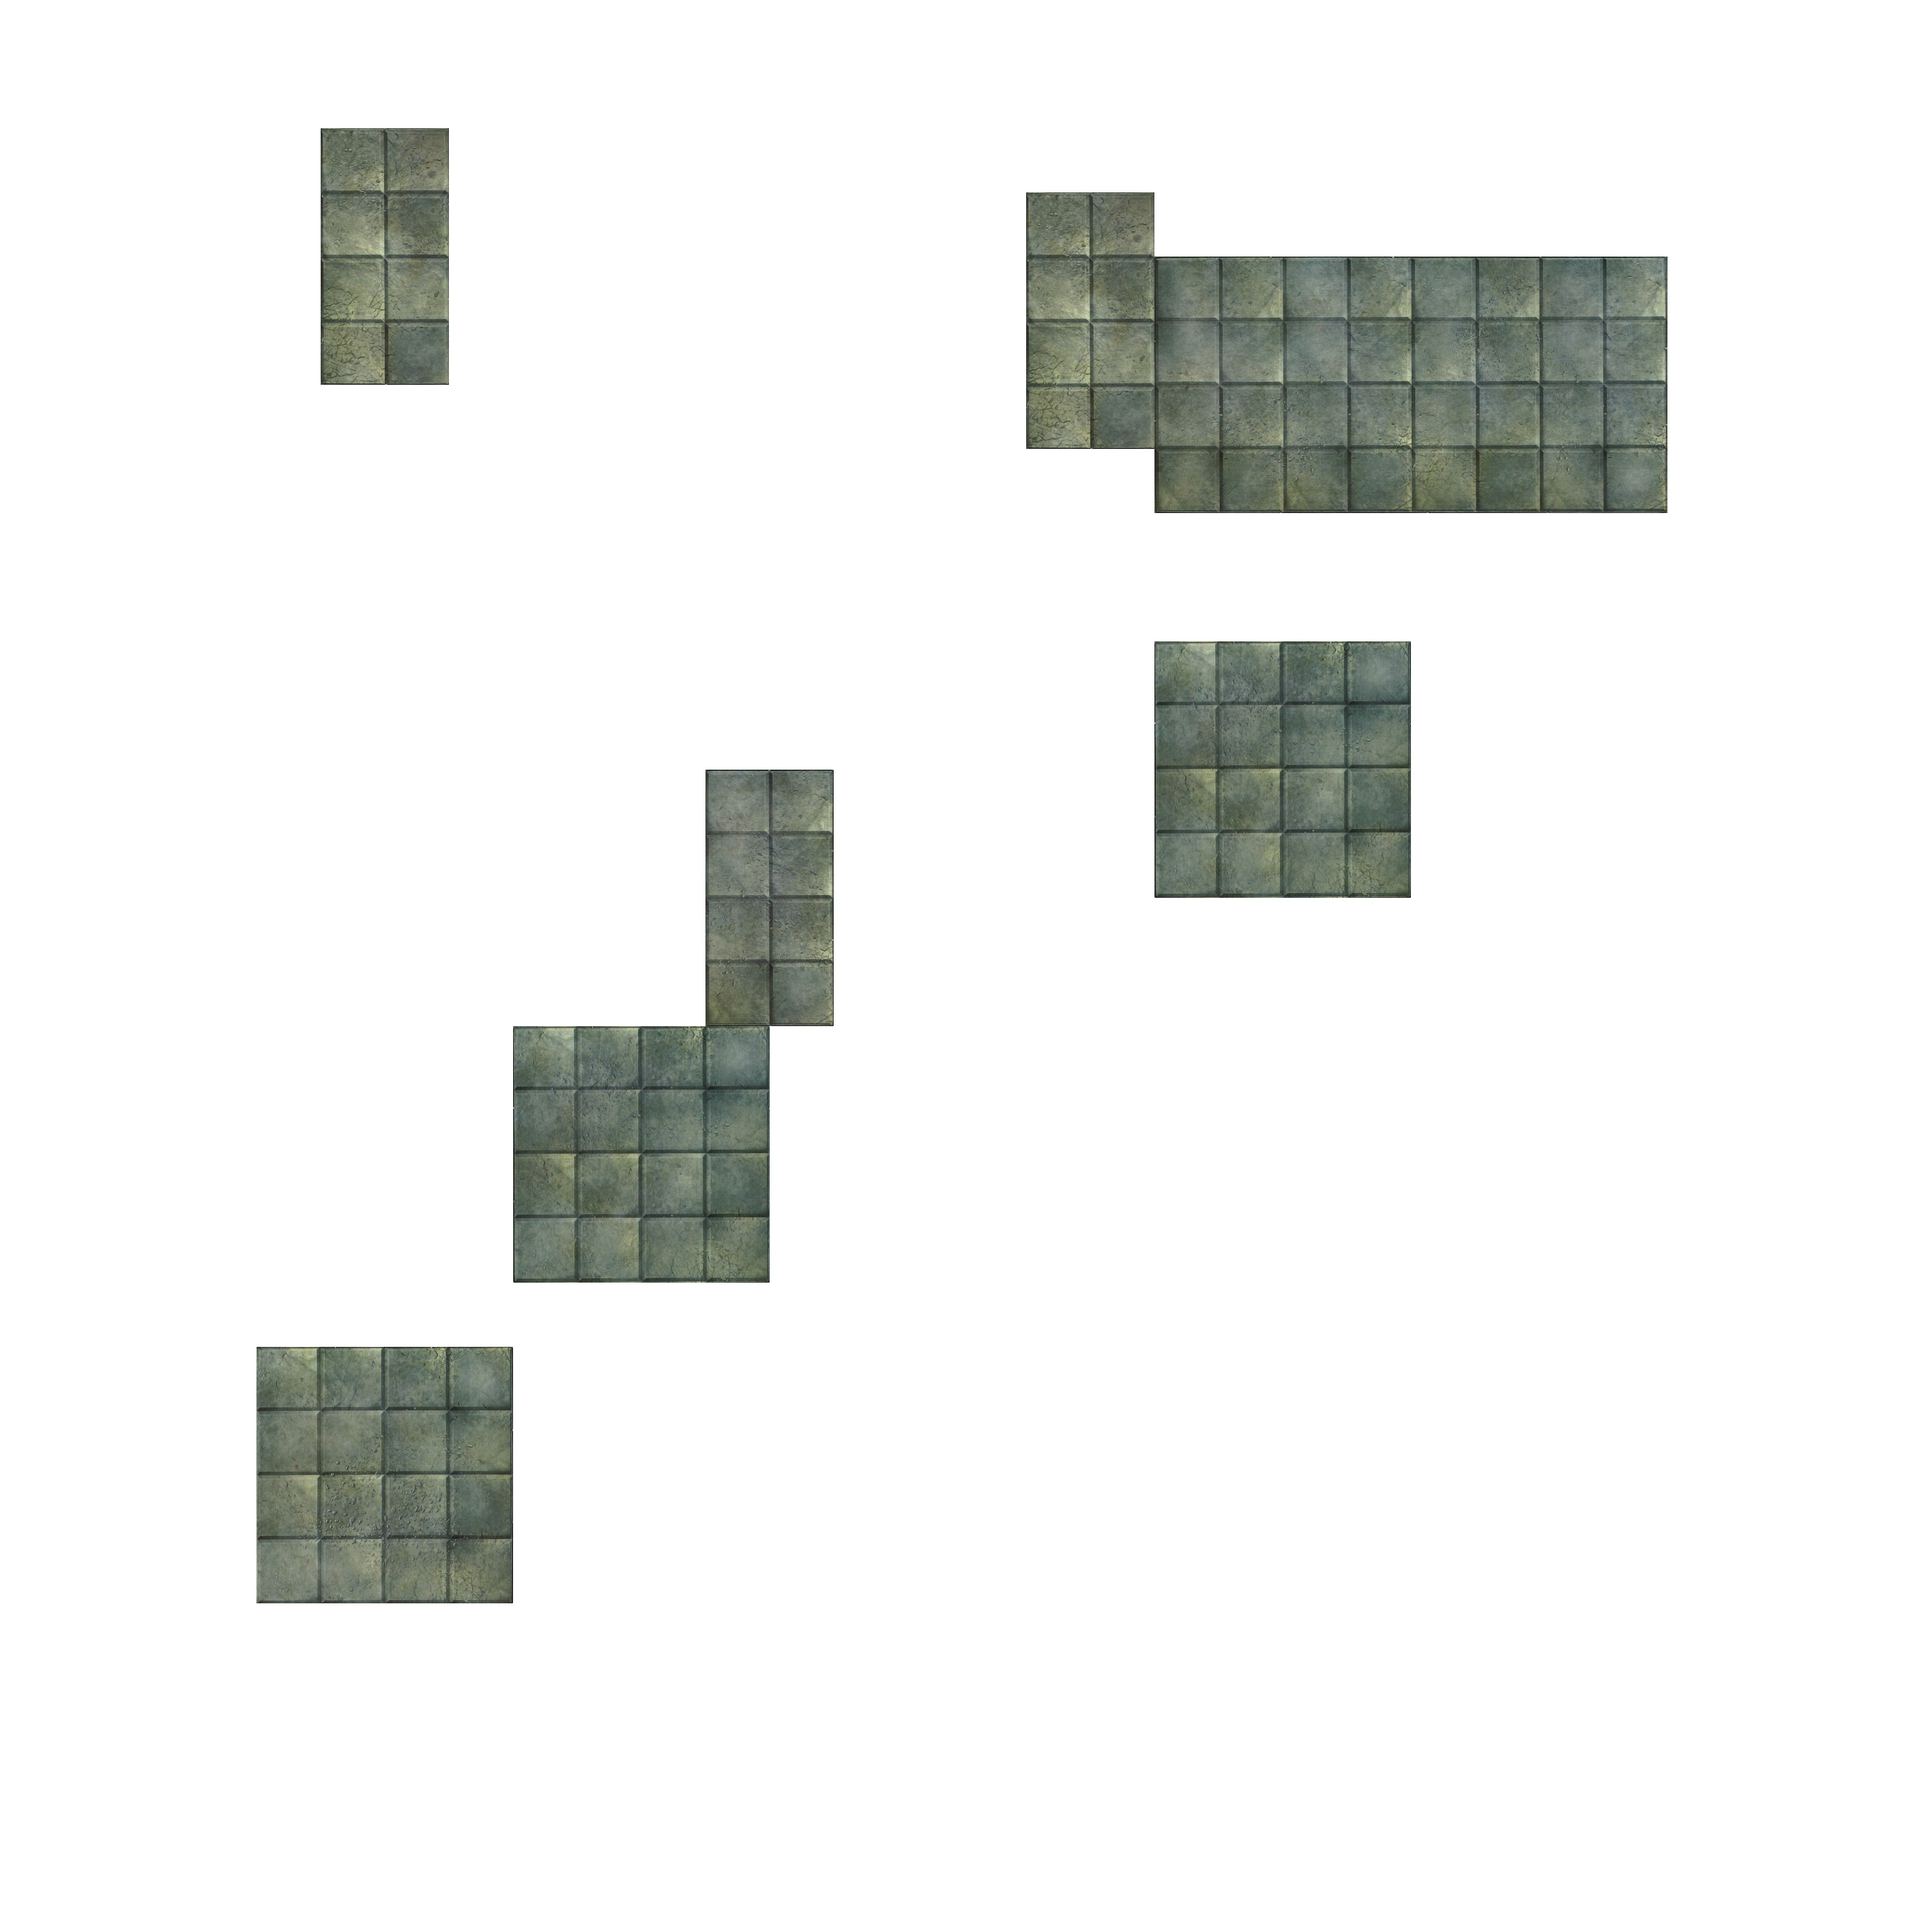
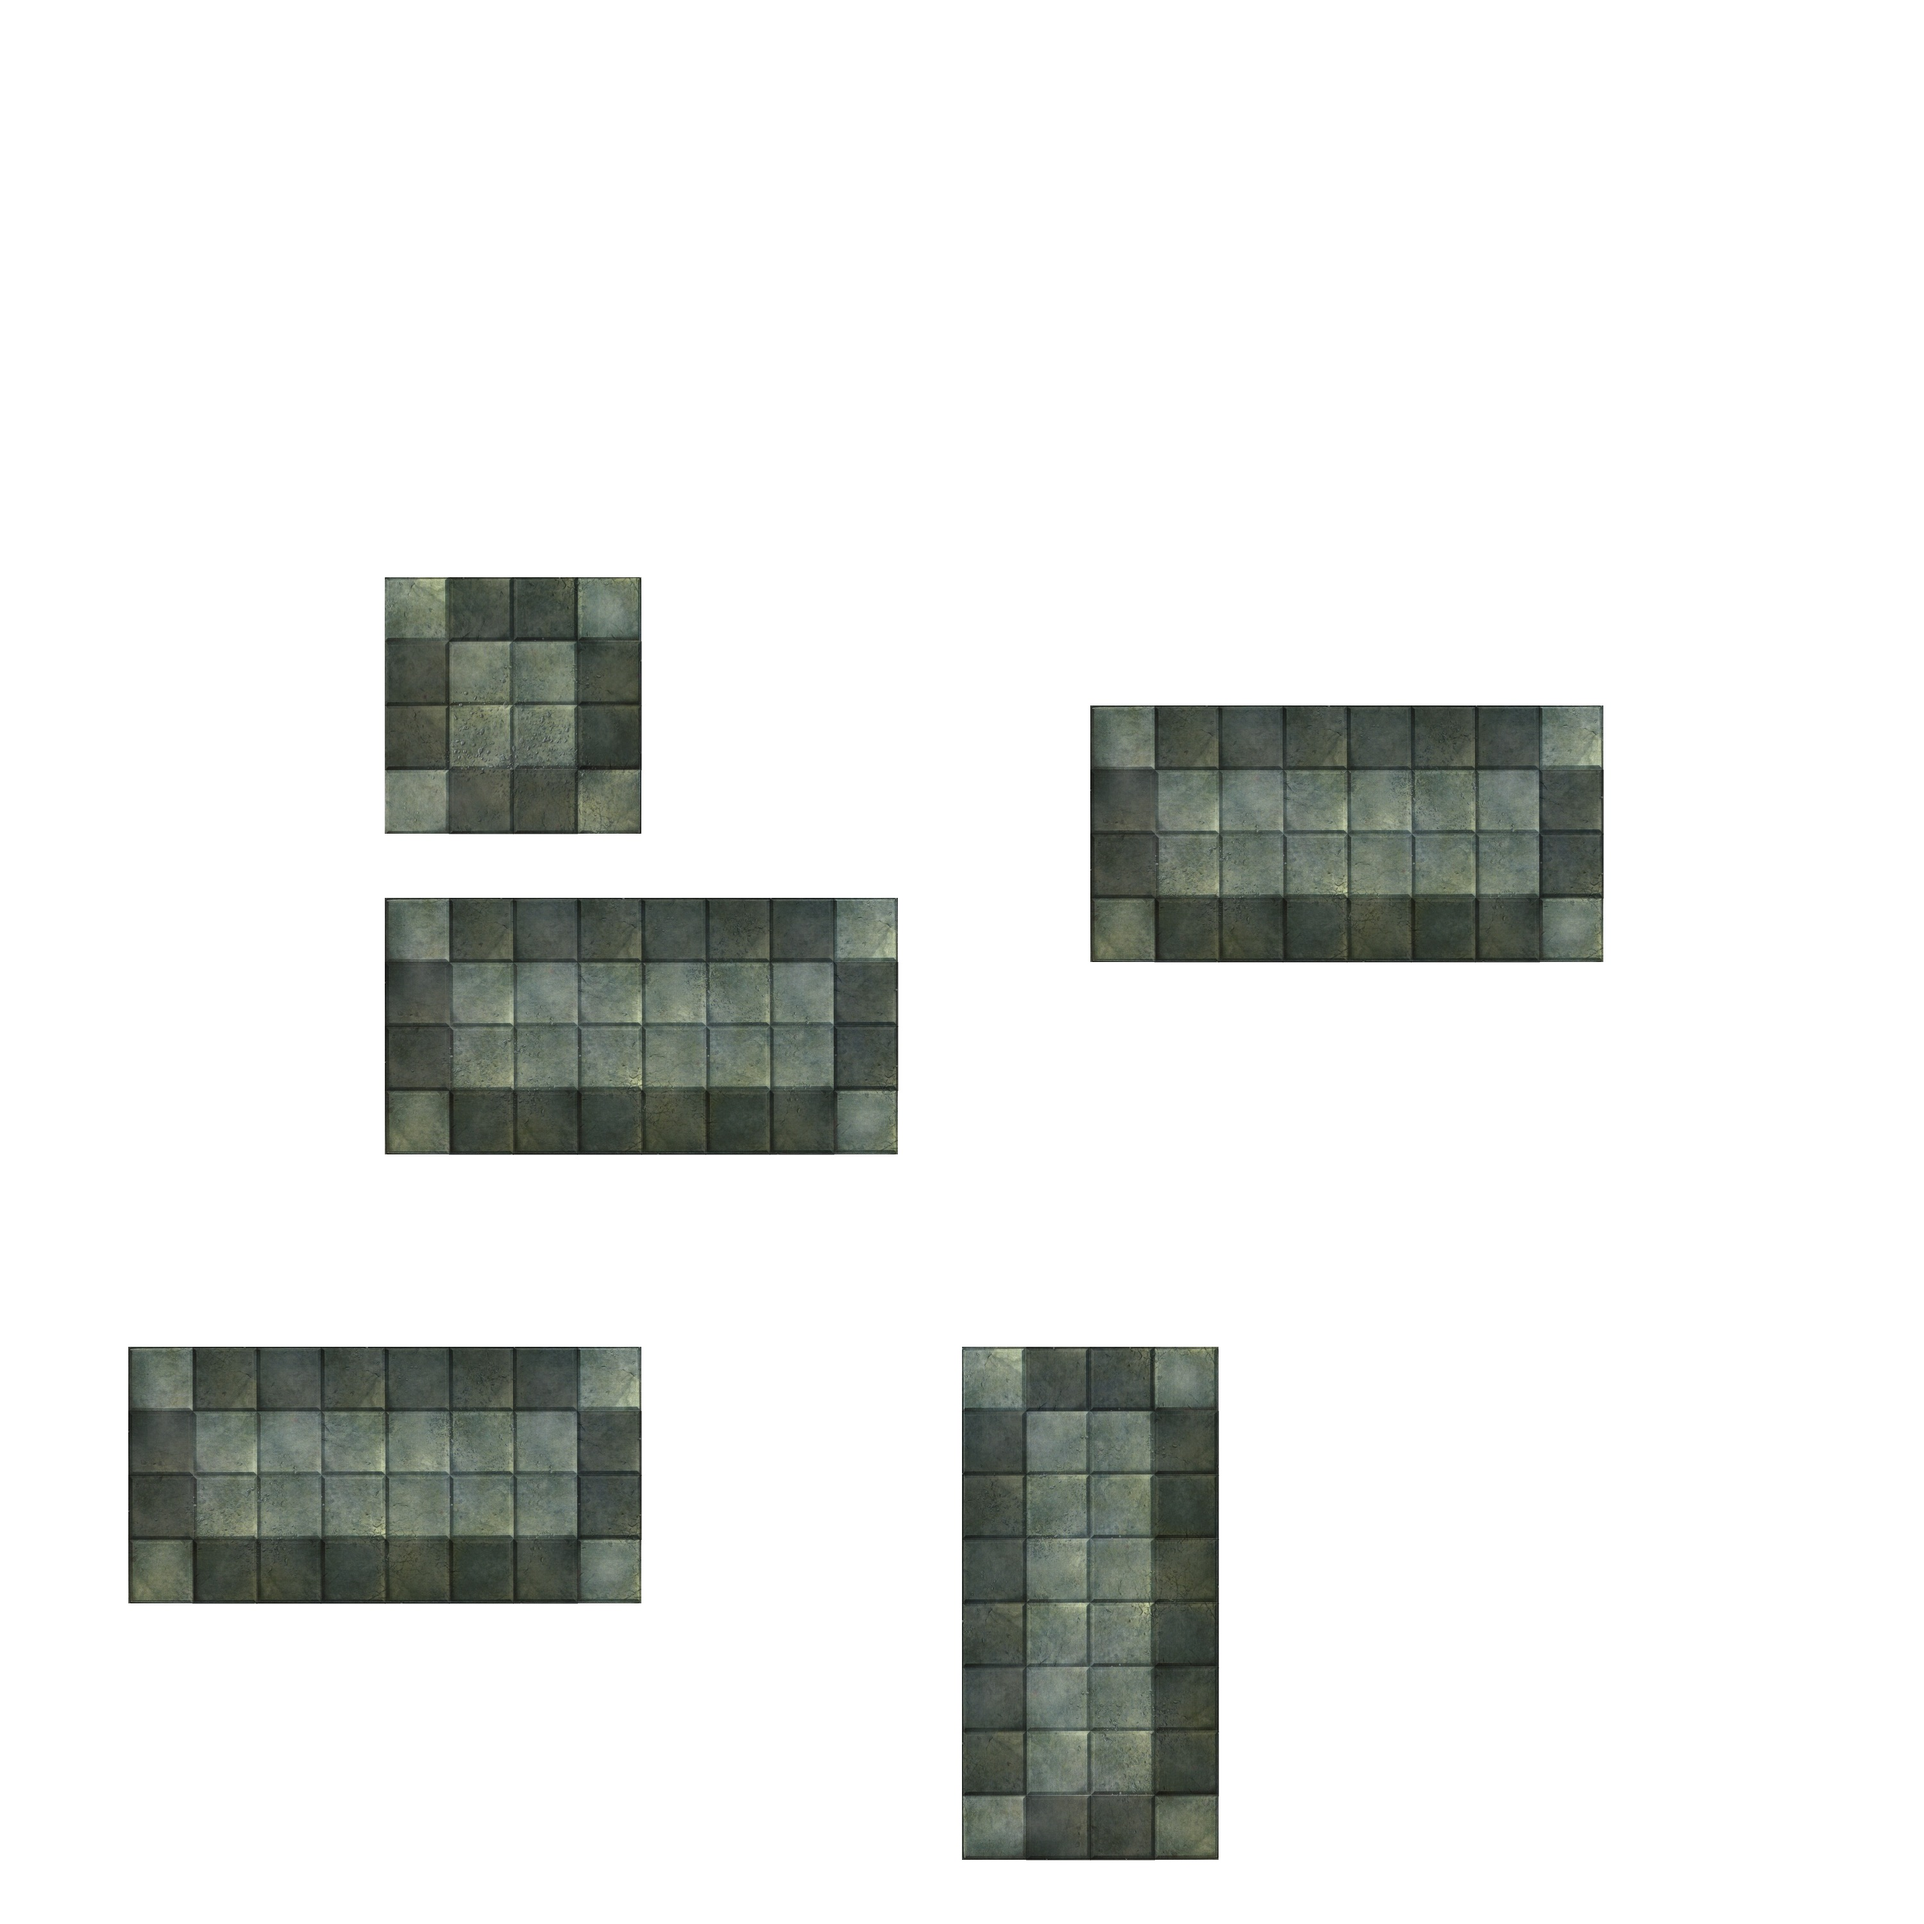
Borders of rooms added.

diff --git a/libs/borders.rb b/libs/borders.rb
@@ -1,0 +1,26 @@
+require_relative 'border'
+
+class Borders
+
+  def initialize( room_on_map )
+    @borders = []
+
+    @borders += 2.upto( room_on_map.room.w-1 ).map{ |w| [
+      Border.new( 1 + room_on_map.top, w + room_on_map.left, :top ),
+      Border.new( room_on_map.room.h + room_on_map.top, w + room_on_map.left, :bottom ) ] }.flatten
+
+    @borders += 2.upto( room_on_map.room.h-1 ).map{ |h| [
+      Border.new( h + room_on_map.top, 1 + room_on_map.left, :left ),
+      Border.new( h + room_on_map.top, room_on_map.room.w + room_on_map.left, :right ) ] }.flatten
+
+    # # @borders += 2.upto( room_on_map.h-2 ).map{ |h| [ Border.new( h, 1 ), Border.new( h, room_on_map.w ) ] }.flatten
+    @borders.sort!
+  end
+
+  def draw( dunegon_image )
+    @borders.each do |border|
+      dunegon_image = border.draw( dunegon_image )
+    end
+    dunegon_image
+  end
+end

diff --git a/libs/border.rb b/libs/border.rb
@@ -1,0 +1,32 @@
+class Border
+
+  attr_reader :top, :left
+
+  def initialize( top, left, border )
+    @top = top
+    @left = left
+    @border = border
+  end
+
+  def draw( dungeon_image )
+    p self
+
+    gc = Magick::Draw.new
+    gc = gc.fill_opacity( 0.35 )
+    draw_top = (@top-1)*Room::TILE_SIZE
+    draw_left = (@left-1)*Room::TILE_SIZE
+
+    gc.rectangle( draw_left, draw_top, draw_left+Room::TILE_SIZE, draw_top+Room::TILE_SIZE )
+    gc.draw( dungeon_image )
+    dungeon_image
+  end
+
+  def <=>( border )
+    return -1 if @top < border.top
+    return 1 if @top > border.top
+
+    return -1 if @left < border.left
+    return 1 if @left > border.left
+
+  end
+end

diff --git a/gen.rb b/gen.rb
@@ -8,21 +8,23 @@ dungeon_image = Magick::Image.new( 30 * Room::TILE_SIZE, 30 * Room::TILE_SIZE )
 rooms = Rooms.new( os )
 hallways = Hallways.new( os )
 
-1.upto(10) do
+placed_rooms = []
+
+1.upto(5) do
 
   top = rand( 1 .. 22 )
   left = rand( 1 .. 22 )
 
-  if rand( 1 .. 2 ) == 1
-    room = rooms.rand
-  else
-    room = hallways.rand
-  end
+  room = rooms.rand
 
   if os.free_space?( room, top, left )
-    dungeon_image = room.draw( dungeon_image, top, left )
+    placed_rooms << room.place( top, left )
   end
 
+end
+
+placed_rooms.each do |pr|
+  dungeon_image = pr.draw( dungeon_image )
 end
 
 dungeon_image.write( 'out/dungeon.jpg' )

diff --git a/libs/room.rb b/libs/room.rb
@@ -1,8 +1,11 @@
 require 'rmagick'
 
+require_relative 'room_on_map'
+
 class Room
 
-  attr_reader :w, :h
+  attr_reader :w, :h, :room_image, :occupied_space
+
   include Magick
 
   TILE_SIZE = 100
@@ -19,10 +22,8 @@ class Room
     @room_image = @room_image.scale( TILE_SIZE * @w, TILE_SIZE * @h )
   end
 
-  def draw( dungeon_image, top, left )
-    p [ top, left, self ]
-    @occupied_space.add_room( self, top, left )
-    dungeon_image.composite( @room_image, left * TILE_SIZE, top * TILE_SIZE, OverCompositeOp )
+  def place( top, left )
+    RoomOnMap.new( self, top, left )
   end
 
 end

diff --git a/libs/room_on_map.rb b/libs/room_on_map.rb
@@ -1,0 +1,25 @@
+require 'rmagick'
+
+require_relative 'borders'
+
+class RoomOnMap
+
+  attr_reader :top, :left, :room
+
+  include Magick
+
+  def initialize( room, top, left )
+    @room = room
+    @top = top
+    @left = left
+
+    @room.occupied_space.add_room( self, top, left )
+    @borders = Borders.new( self )
+  end
+
+  def draw( dungeon_image )
+    dungeon_image = dungeon_image.composite( @room.room_image, @left * Room::TILE_SIZE, @top * Room::TILE_SIZE, OverCompositeOp )
+    @borders.draw( dungeon_image )
+  end
+
+end

diff --git a/libs/occupied_spaces.rb b/libs/occupied_spaces.rb
@@ -6,9 +6,9 @@ class OccupiedSpaces
     @occupied_spaces = Set.new
   end
 
-  def add_room( room, top, left )
-    0.upto( room.w-1 ).each do |uw|
-      0.upto( room.h-1 ).each do |uh|
+  def add_room( room_on_map, top, left )
+    0.upto( room_on_map.room.w-1 ).each do |uw|
+      0.upto( room_on_map.room.h-1 ).each do |uh|
         @occupied_spaces << [ uw+left, uh+top ]
       end
     end
